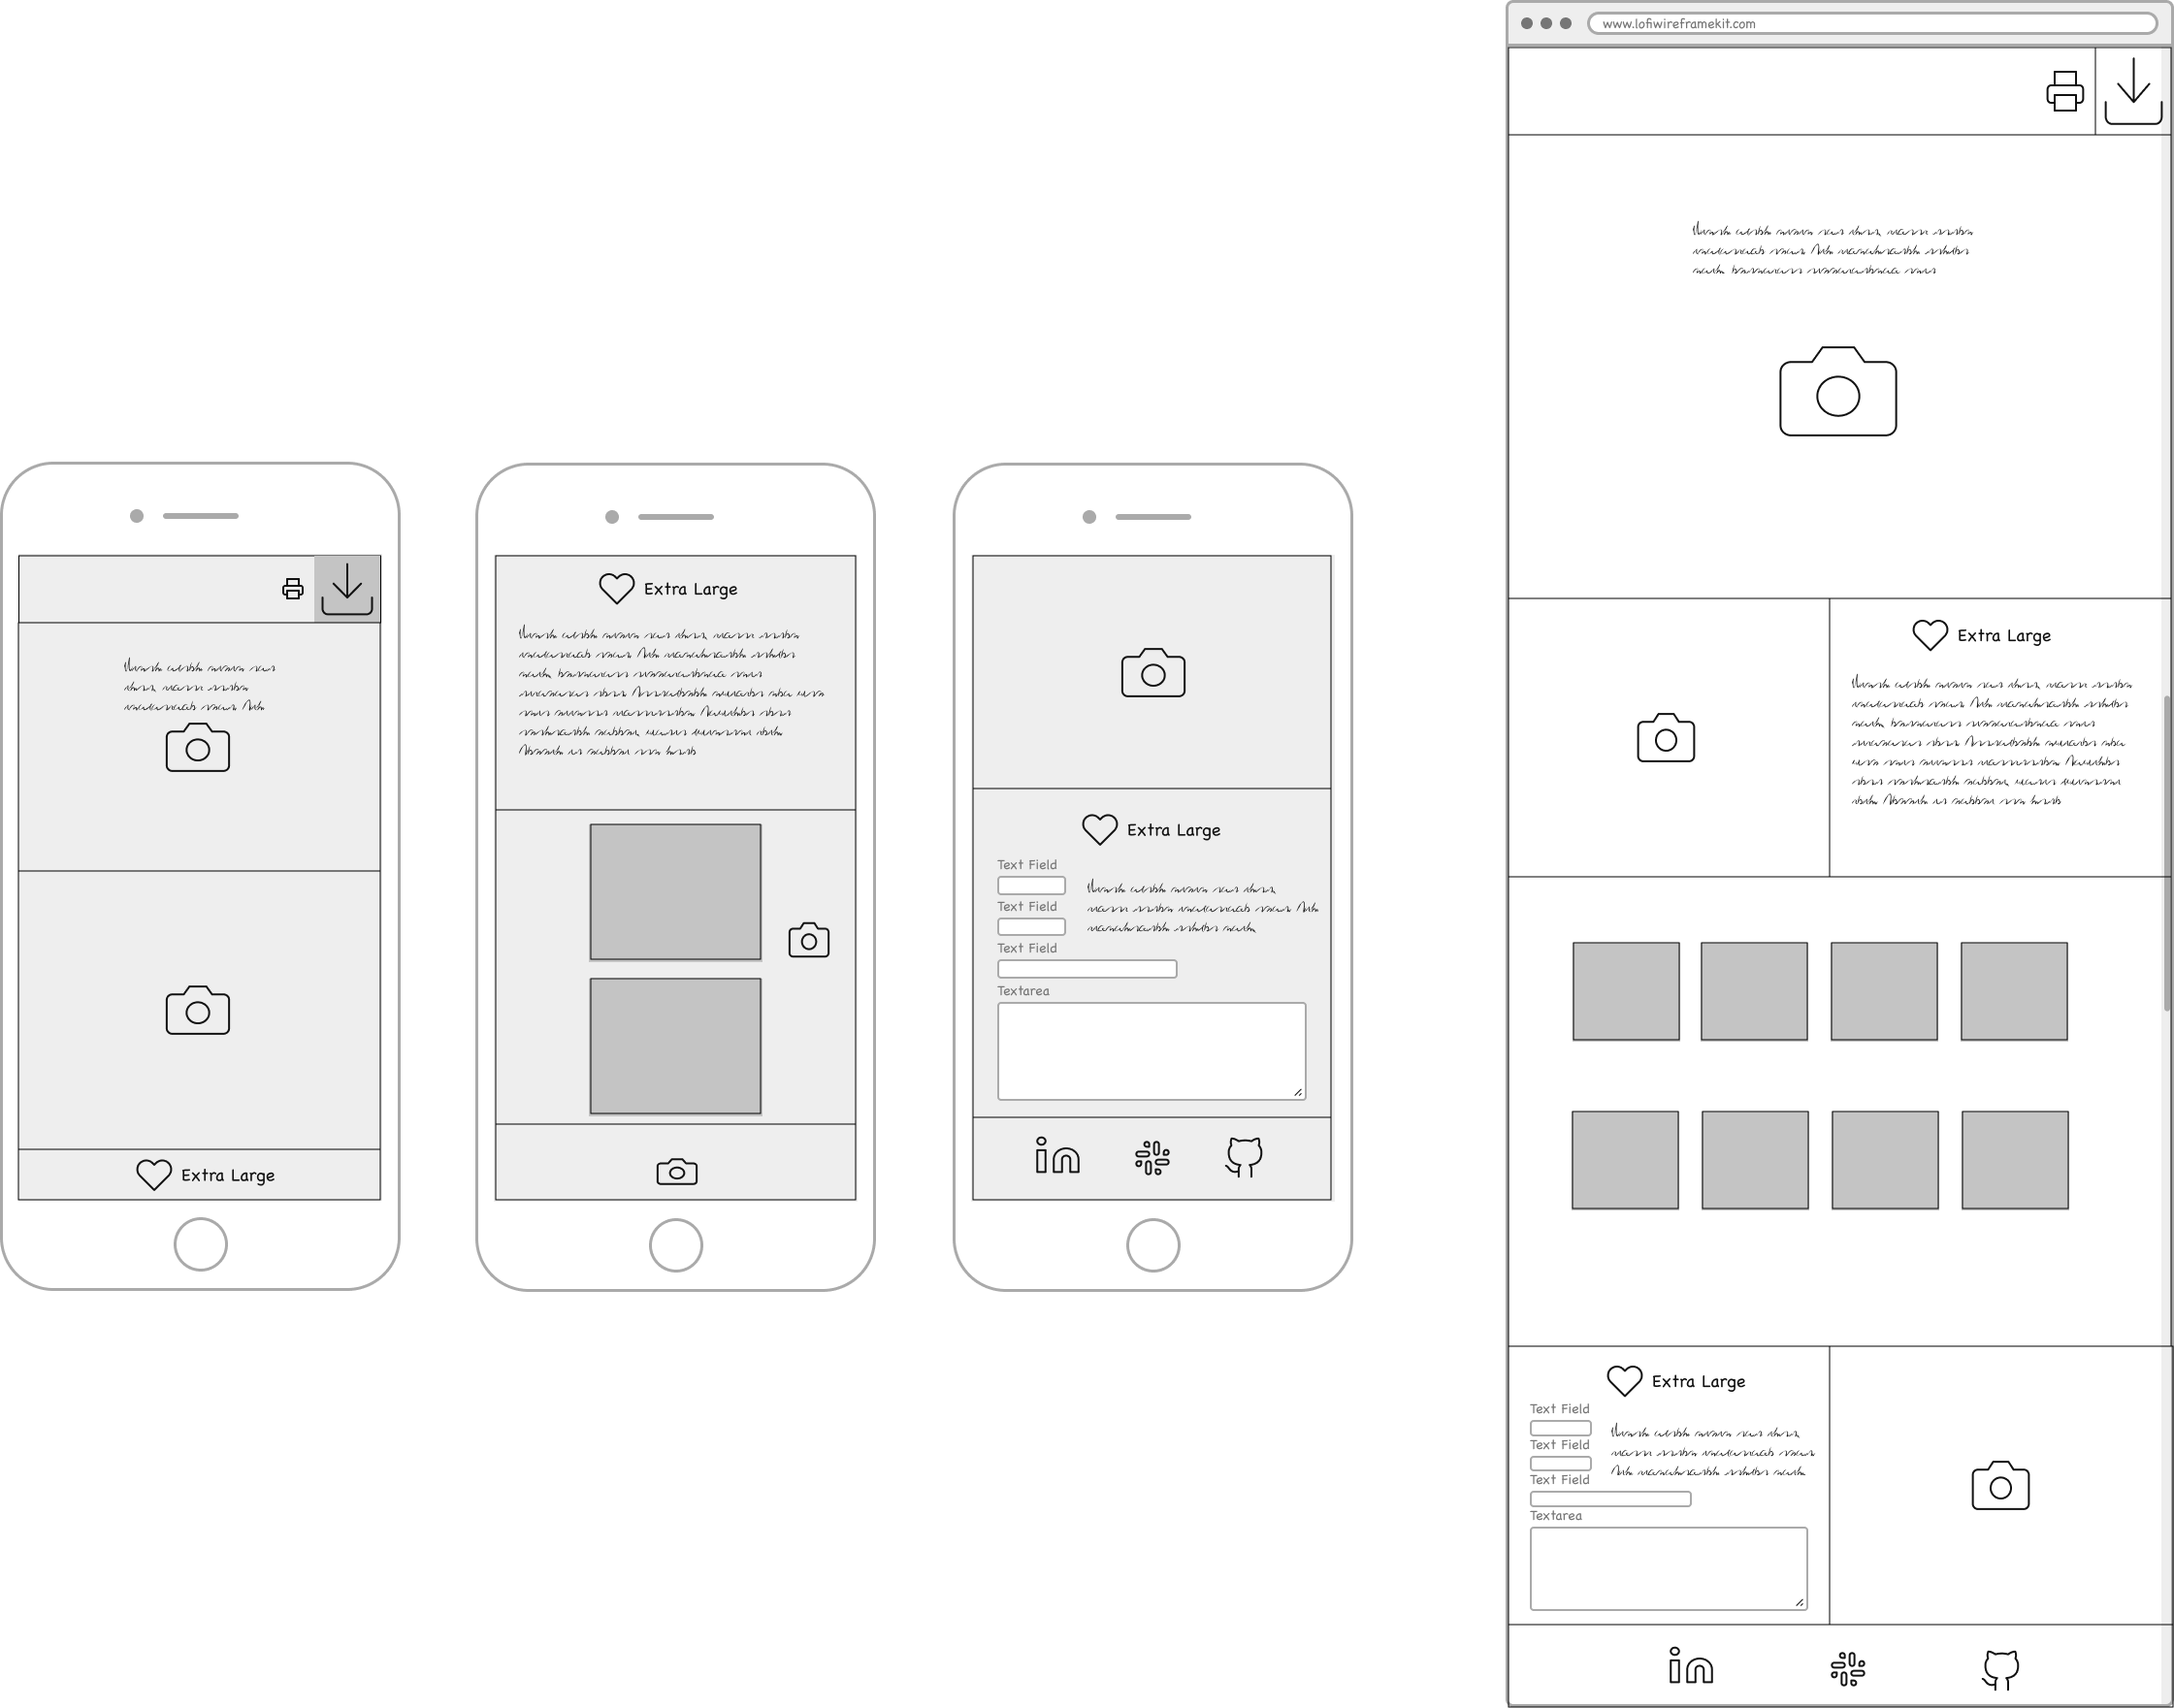
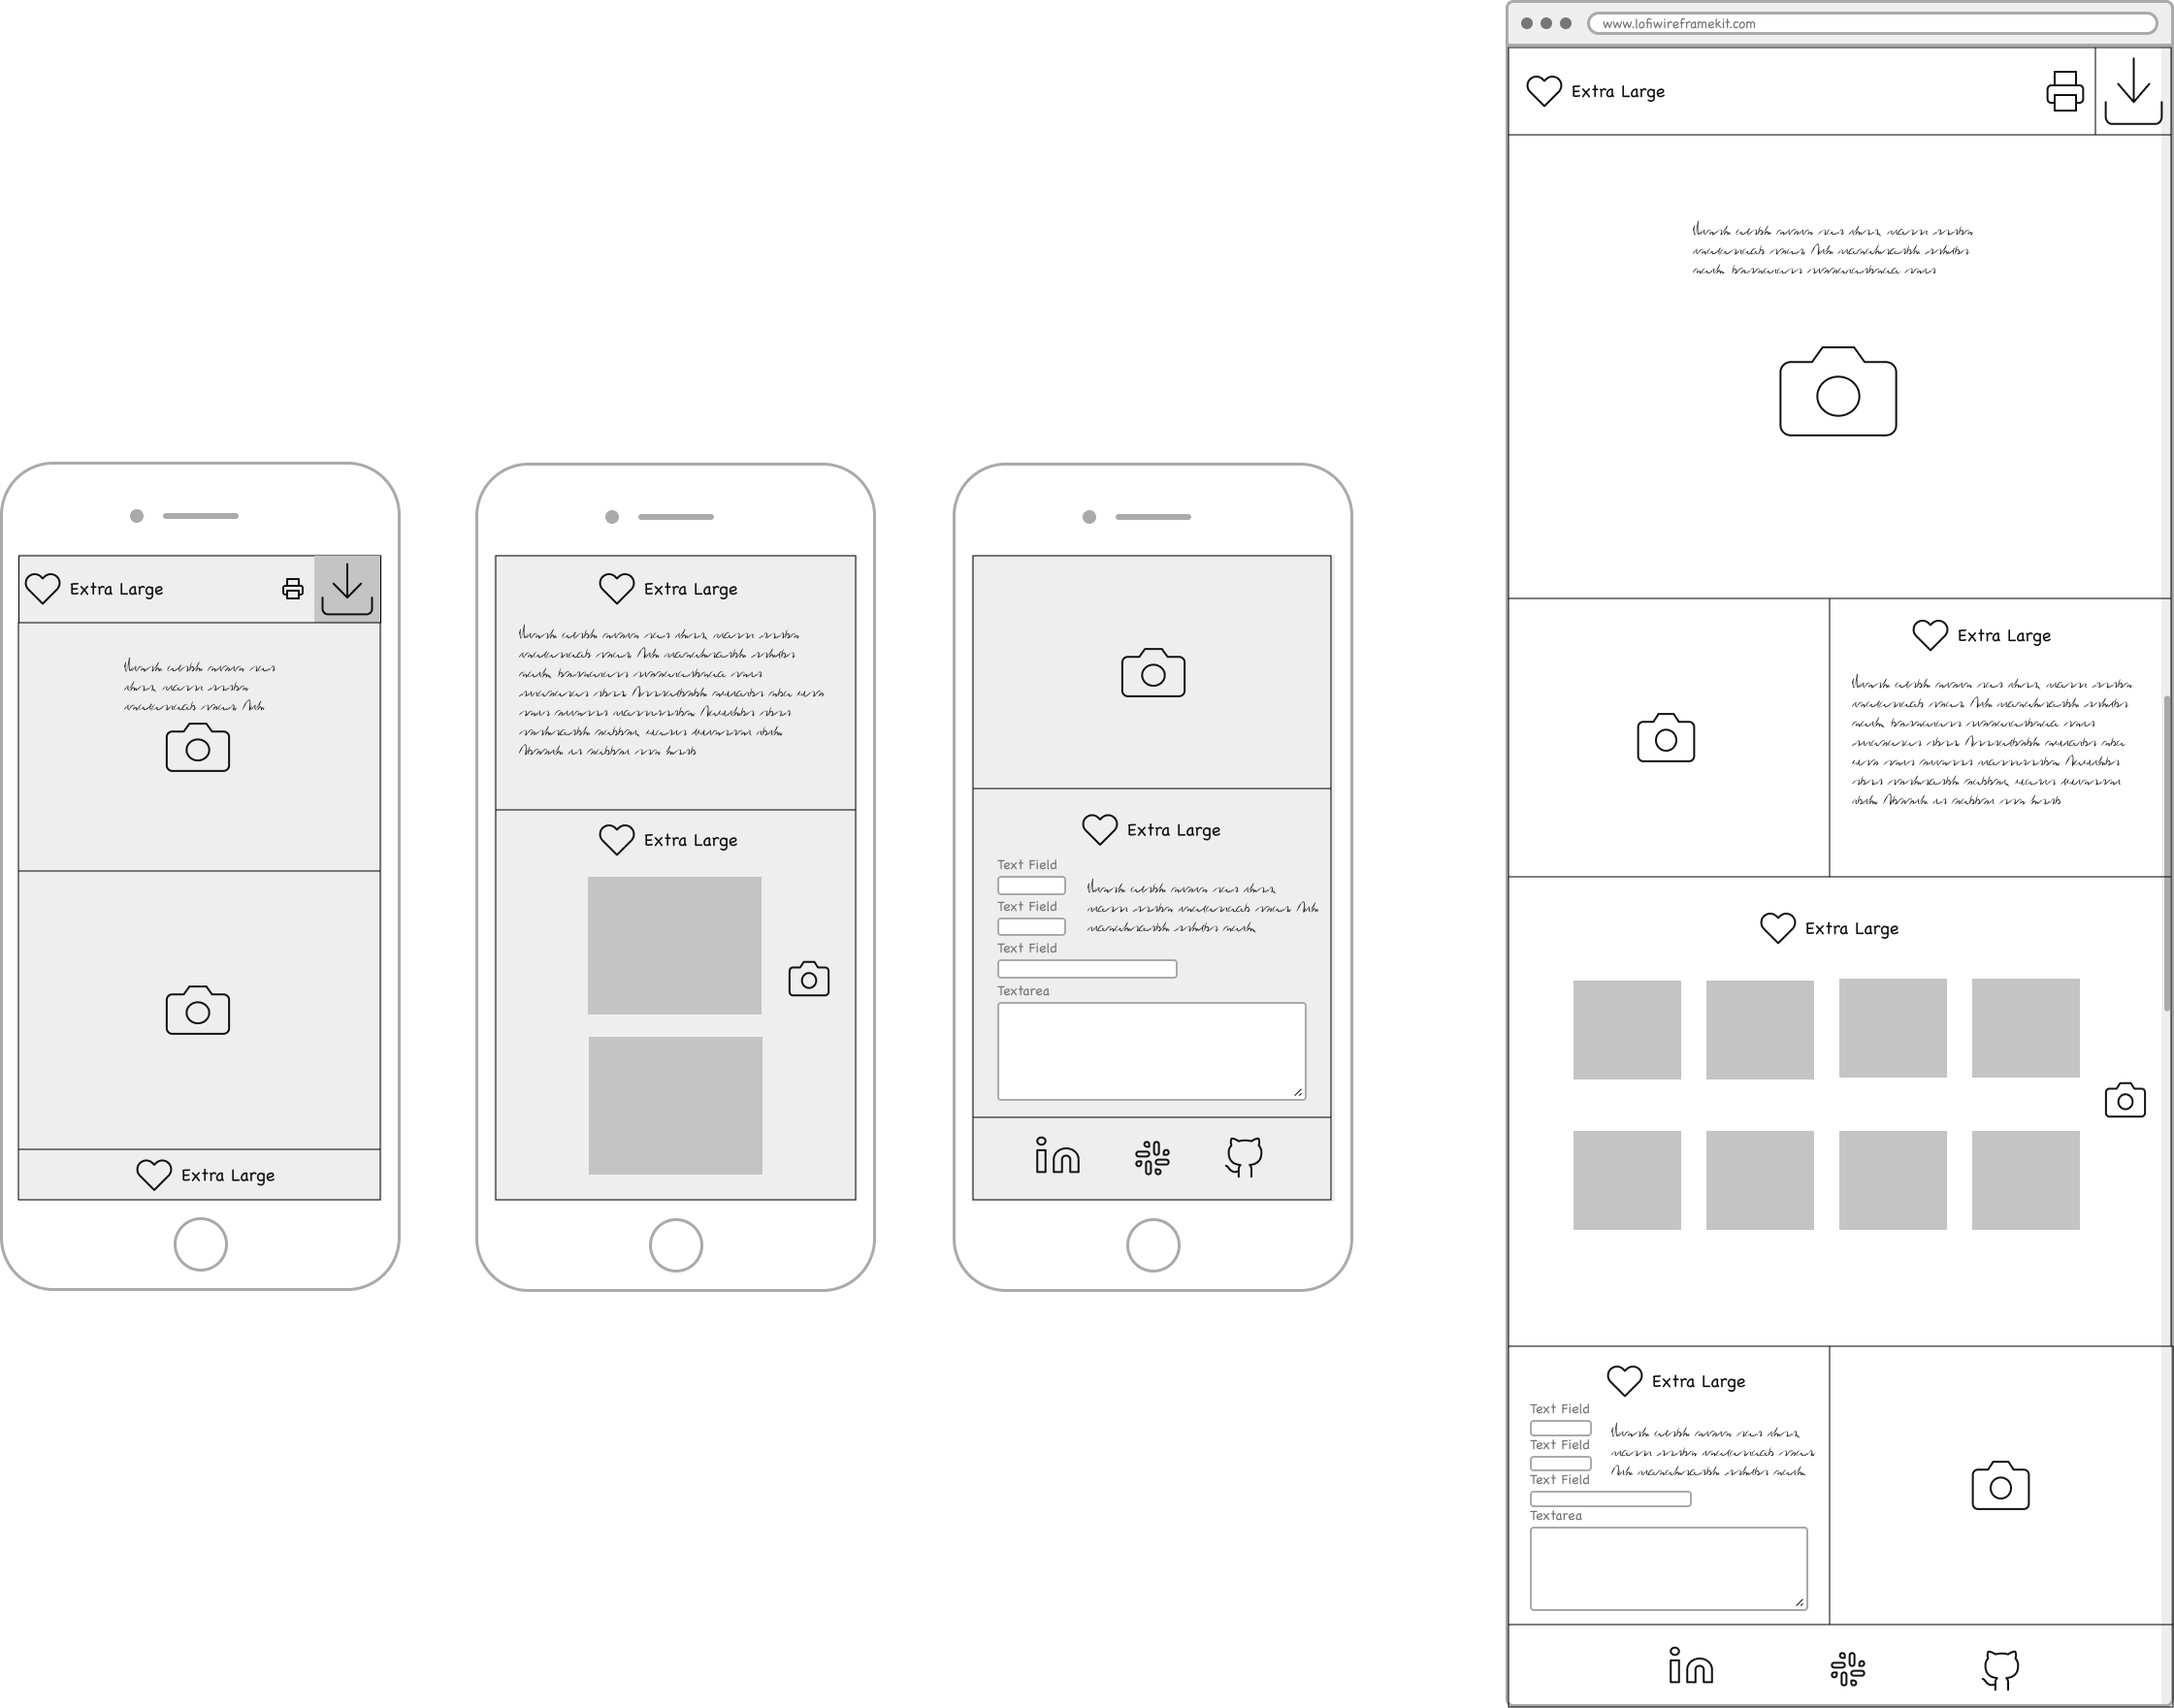
double checked wireframe matched html plan

Changed region(s): [[0.7184, 0.5309, 0.9996, 0.7183], [0.2499, 0.4685, 0.3748, 0.6871]]

diff --git a/public_html/documentation/milestone-2.html b/public_html/documentation/milestone-2.html
@@ -8,15 +8,15 @@
     <h1>Personal Website Project M2</h1>
         <h2>Content Strategy</h2>
             <h3>NavBar</h3>
-                <p>The navbar will contain my name and/or title of my site. On the other I will have a button to download my resume and a print button. this is tbd depending on viability.</p>
+                <p>The navbar will contain my name and/or title of my site on the left. On the other side I will have a button to download my resume and a print button. this is tbd depending on viability.</p>
             <h3>Welcome</h3>
                 <p>Brief message about web development and computer knowledge seeking on background I will choose later that fits a color scheme</p>
             <h3>About Me</h3>
-                <p>Will have picture of me above. More detailed section where I will talk about where I started my journey(DDC) and where I plan to go. Will be meant for potential employers, and will list relevant skills and languages with emphasis for search engines.</p>
+                <p>Will have picture of me above for mobile, to the left for large screens. More detailed section where I will talk about where I started my journey(DDC) and where I plan to go. Will be meant for potential employers, and will list relevant skills and languages.</p>
             <h3>Portfolio</h3>
-                <p>Will have picture above. series of pictures 4 wide on big screen and stacked on mobile with Barefootcarp, capstone (maybe), coming soon, placeholder github links. descriptions below and a title above.</p>
+                <p>Series of pictures 4 wide on big screen and stacked on mobile with Barefootcarp, capstone (maybe), placeholder github links, and coming soon space. has a title above.</p>
             <h3>Contact</h3>
-                <p>contact form with first name, last name, email, and message. Brief message about what to leave in message area. Large icons for navbar items from top.</p>
+                <p>contact form with first name, last name, email, and message. Brief message about what to leave in message area and title. Large icons for links.</p>
     <img src="./img/wireframe.png" alt="wireframes" width="747" height="587">
 </body>
 </html>
